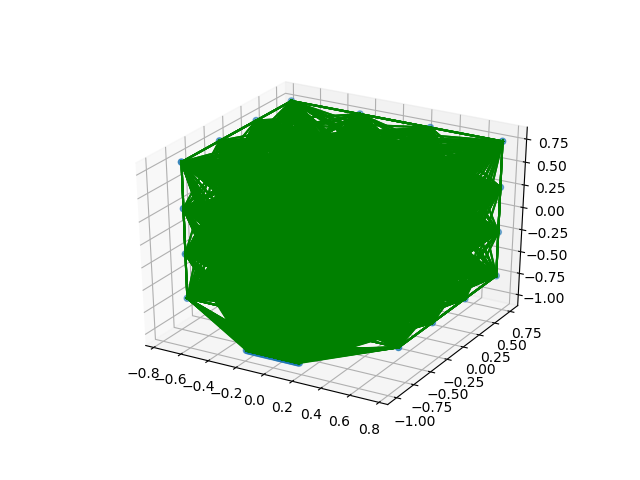
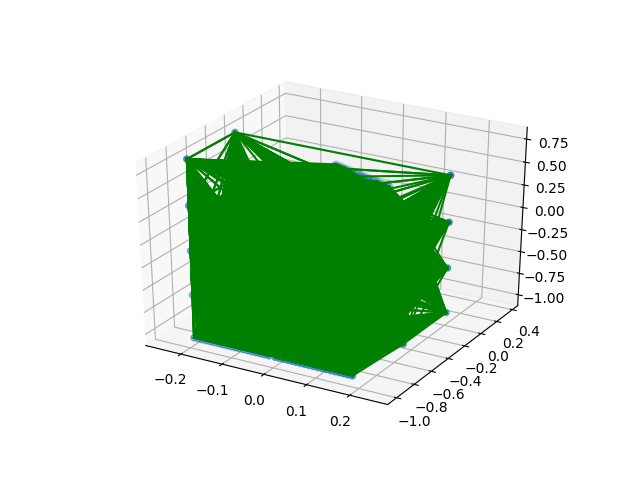
flexing

diff --git a/trading_purples.py b/trading_purples.py
@@ -61,7 +61,7 @@ class PurpleTrader:
             for ix2 in range(1,(self.inputs//self.outputs)+1):
                 self.in_shapes.append((0.0+(sign*.01*ix2), 0.0-(sign*.01*ix), 0.0-(sign*.01*ix2)))
         self.subStrate = Substrate(self.in_shapes, self.out_shapes)
-        self.epoch_len = 55
+        self.epoch_len = 89
         #self.node_names = ['x1', 'y1', 'z1', 'x2', 'y2', 'z2', 'weight']
         self.leaf_names = []
         #num_leafs = 2**(len(self.node_names)-1)//2
@@ -121,19 +121,27 @@ class PurpleTrader:
         print(result_val[0], "buys: ", result_val[1], "sells: ", result_val[2])
         ft = result_val[0]
         if(ft == portfolio_start):
-            ft = portfolio_start/2
+            ft = portfolio_start * .75
         return ft
 
     def solve(self, network):
         return self.evaluate(network) >= self.highest_returns
 
+    def trial_run(self):
+        r_start = self.hd
+        file = open("es_trade_god_cppn_3d.pkl",'rb')
+        [cppn] = pickle.load(file)
+        network = ESNetwork(self.subStrate, cppn, self.params)
+        net = network.create_phenotype_network_nd()
+        fitness = self.evaluate(net, network, r_start)
+        return fitness
 
     def eval_fitness(self, genomes, config):
         r_start = randint(0+self.hd, self.hs.hist_full_size - self.epoch_len)
         for idx, g in genomes:
             [cppn] = create_cppn(g, config, self.leaf_names, ['cppn_out'])
             network = ESNetwork(self.subStrate, cppn, self.params)
-            net = network.create_phenotype_network_nd("current_net.png")
+            net = network.create_phenotype_network_nd()
             g.fitness = self.evaluate(net, network, r_start)
 
 
@@ -152,13 +160,14 @@ def run_pop(task, gens):
 
 # If run as script.
 if __name__ == '__main__':
-    task = PurpleTrader(55)
+    task = PurpleTrader(89)
+    #print(task.trial_run())
     winner = run_pop(task, 10)[0]
     print('\nBest genome:\n{!s}'.format(winner))
 
     # Verify network output against training data.
     print('\nOutput:')
-    cppn = neat.nn.FeedForwardNetwork.create(winner, task.config)
+    [cppn] = create_cppn(winner, task.config, task.leaf_names, ['cppn_out'])
     network = ESNetwork(task.subStrate, cppn, task.params)
     with open('es_trade_god_cppn_3d.pkl', 'wb') as output:
         pickle.dump(cppn, output)
@@ -166,7 +175,8 @@ if __name__ == '__main__':
     winner_net = network.create_phenotype_network_nd('dabestest.png')  # This will also draw winner_net.
 
     # Save CPPN if wished reused and draw it to file.
-    #draw_net(cppn, filename="es_trade_god")
+    draw_net(cppn, filename="es_trade_god")
+
 
     '''
     for x in range(len(task.hs.hist_shaped[0])):
